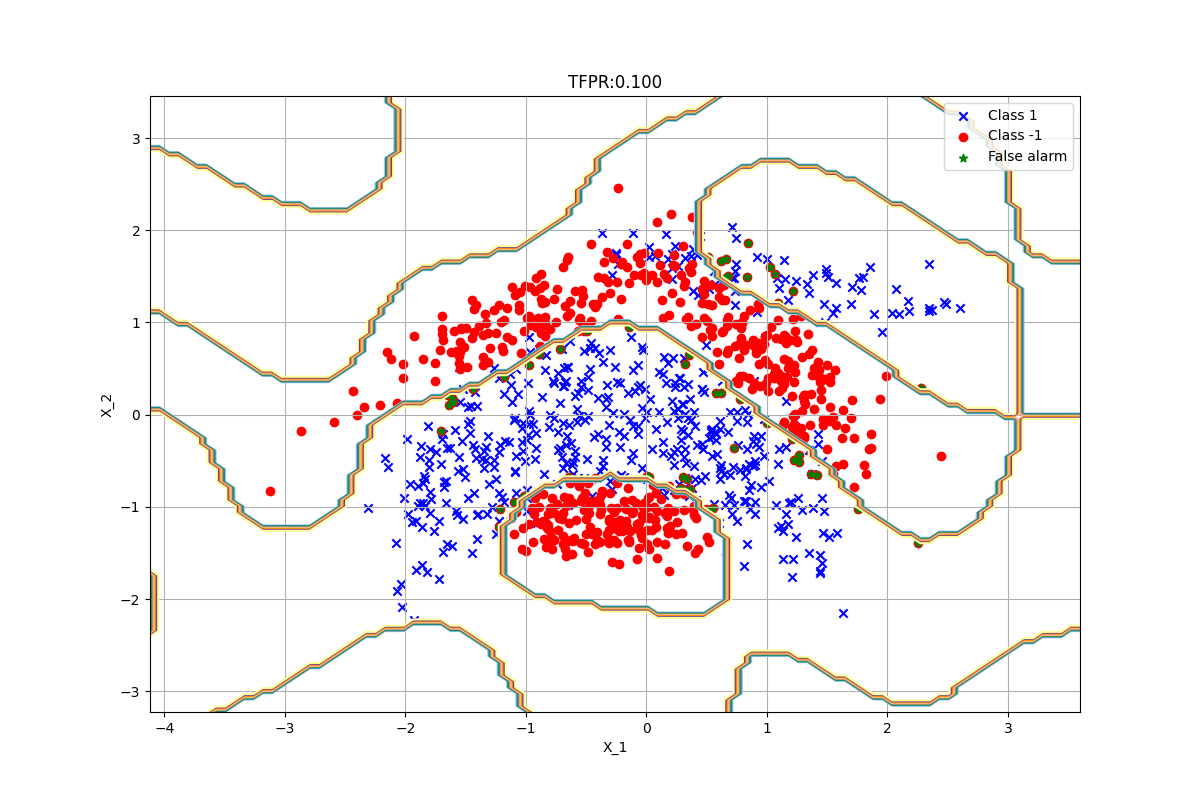
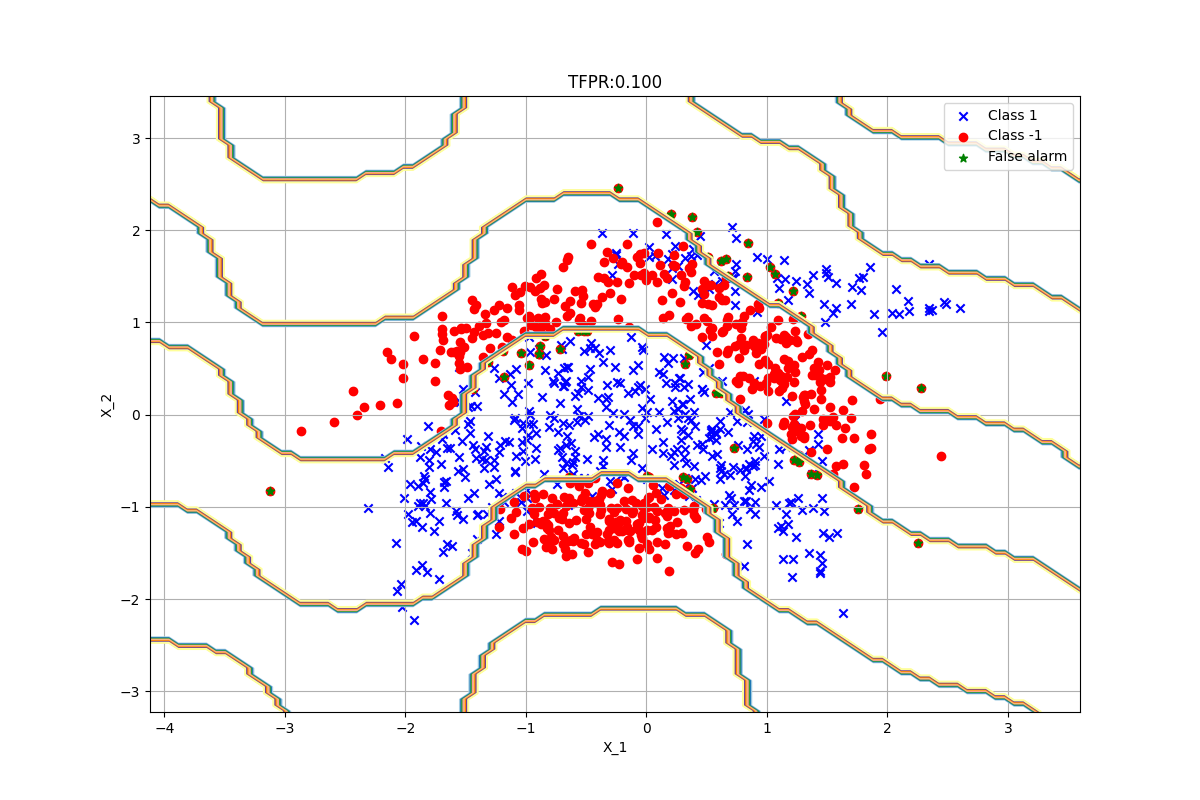
added sklearn gridsearch compatibility

diff --git a/npnn/npnn.py b/npnn/npnn.py
@@ -8,19 +8,20 @@ __status__ = "Dev"
 
 import numpy as np
 import warnings
+from sklearn.metrics import confusion_matrix
 
 class npnn:
 
-    def __init__(self, tfpr_=0.1, eta_init_=0.01, beta_init_=100, sigmoid_h_=-1, Lambda_=0, D_=2, g_=0.1):
+    def __init__(self, tfpr=0.1, eta_init=0.01, beta_init=100, sigmoid_h=-1, Lambda=0, D=2, g=0.1):
 
         # hyperparameters
-        self.tfpr = tfpr_
-        self.eta_init = eta_init_
-        self.beta_init = beta_init_
-        self.sigmoid_h = sigmoid_h_
-        self.Lambda = Lambda_
-        self.D = D_
-        self.g = g_
+        self.tfpr = tfpr
+        self.eta_init = eta_init
+        self.beta_init = beta_init
+        self.sigmoid_h = sigmoid_h
+        self.Lambda = Lambda
+        self.D = D
+        self.g = g
     
         # parameters (these features are assigned after training is completed)
         self.w_ = None # perceptron weight
@@ -33,7 +34,8 @@ class npnn:
         self.neg_class_weight_train_array_ = None # learned weight for negative class (note that we assume binary classes are 1 and -1)
         self.pos_class_weight_train_array_ = None # learned weight for positive class
 
-    def fit(self, X, y, n_samples_augmented_min=150e3):
+    #def fit(self, X, y, n_samples_augmented_min=150e3):
+    def fit(self, X, y, **fit_params):
 
         # take the parameters
         tfpr = self.tfpr
@@ -44,6 +46,9 @@ class npnn:
         Lambda = self.Lambda
         D = self.D
         g = self.g
+
+        # constants
+        n_samples_augmented_min = 150000
 
         # prepare the X
         # note that since this is an online algorithm, to have better conversion, we augment initial data
@@ -231,6 +236,36 @@ class npnn:
             y_predict[i] = np.sign(y_discriminant)[0,0]
 
         return y_predict
+
+    def score(self, X, y):
+        
+        y_pred = self.predict(X)
+        tn, fp, fn, tp = confusion_matrix(y, y_pred).ravel()
+        FPR = fp/(fp+tn)
+        TPR = tp/(tp+fn)
+        TFPR = self.tfpr
+        np_score = max(FPR, TFPR)/TFPR - TPR
+        # since less np_score is better, take negative of the score
+        np_score = -np_score
+
+        return np_score
+
+    def get_params(self, deep=True):
+
+        params = dict()
+        params['D'] = self.D
+        params['g'] = self.g
+        params['eta_init'] = self.eta_init
+        params['Lambda'] = self.Lambda
+        
+        return params
+
+    def set_params(self, **params):
+
+        for key, val in params.items():
+            setattr(self, key, val)
+
+        return self
 
     # aux functions
     def __augment_data(self, X, y, n_samples, n_features, n_samples_augmented_min):

diff --git a/main.py b/main.py
@@ -23,17 +23,29 @@ X_train = sc.fit_transform(X_train)
 X_test = sc.transform (X_test)
 
 # define hyperparameters
-parameters = {'kernel':('linear', 'rbf'), 'C':[1, 10]}
+parameters = {
+    'D':[2, 4], 
+    'g':[0.1, 1],
+    'Lambda':[0, 1e-4]
+    }
 
 # define classifier
 NPNN = npnn(tfpr=0.1)
-clf = GridSearchCV(NPNN, parameters)
+
+# hyperparameter tuning
+clf = GridSearchCV(NPNN, parameters, verbose=3, cv=2, n_jobs=-1)
 
 # training
 clf.fit(X_train, y_train)
 
+# print best params
+print(clf.best_params_)
+
+# get best estimator
+best_NPNN = clf.best_estimator_
+
 # prediction
-y_pred = NPNN.predict(X_test)
+y_pred = best_NPNN.predict(X_test)
 
 # evaluation
 tn, fp, fn, tp = confusion_matrix(y_test, y_pred).ravel()
@@ -43,18 +55,18 @@ print("NPNN, TPR: {:.3f}, FPR: {:.3f}".format(TPR, FPR))
 
 # plot transient performances
 f,ax = plt.subplots(3,1,figsize=(8,12))
-ax[0].plot(NPNN.tpr_train_array_, label="TPR")
+ax[0].plot(best_NPNN.tpr_train_array_, label="TPR")
 ax[0].set_xlabel("Number of Samples")
 ax[0].set_ylabel("TPR")
 ax[0].grid()
 ax[0].legend()
-ax[1].plot(NPNN.fpr_train_array_, label="FPR")
+ax[1].plot(best_NPNN.fpr_train_array_, label="FPR")
 ax[1].set_xlabel("Number of Samples")
 ax[1].set_ylabel("FPR")
 ax[1].grid()
 ax[1].legend()
-ax[2].plot(NPNN.neg_class_weight_train_array_, label="Negative Class weight")
-ax[2].plot(NPNN.pos_class_weight_train_array_, label="Positive Class weight")
+ax[2].plot(best_NPNN.neg_class_weight_train_array_, label="Negative Class weight")
+ax[2].plot(best_NPNN.pos_class_weight_train_array_, label="Positive Class weight")
 ax[2].set_xlabel("Number of Samples")
 ax[2].set_ylabel("Class Respective Weights")
 ax[2].grid()
@@ -68,7 +80,7 @@ y_min, y_max = X_test[:, 1].min() - 1, X_test[:, 1].max() + 1
 xx, yy = np.meshgrid(np.linspace(x_min, x_max, 100),
                      np.linspace(y_min, y_max, 100))
 X_mesh = np.c_[xx.ravel(), yy.ravel()]
-Z = NPNN.predict(X_mesh)
+Z = best_NPNN.predict(X_mesh)
 Z = Z.reshape(xx.shape)
 pos_class_indices = (y_test == 1)
 neg_class_indices = (y_test == -1)
@@ -82,5 +94,5 @@ ax.legend()
 ax.grid()
 ax.set_ylabel("X_2")
 ax.set_xlabel("X_1")
-ax.set_title("TFPR:{:.3f}".format(NPNN.tfpr))
+ax.set_title("TFPR:{:.3f}".format(best_NPNN.tfpr))
 f.savefig('./figures/decision_boundary_visualized.png')
